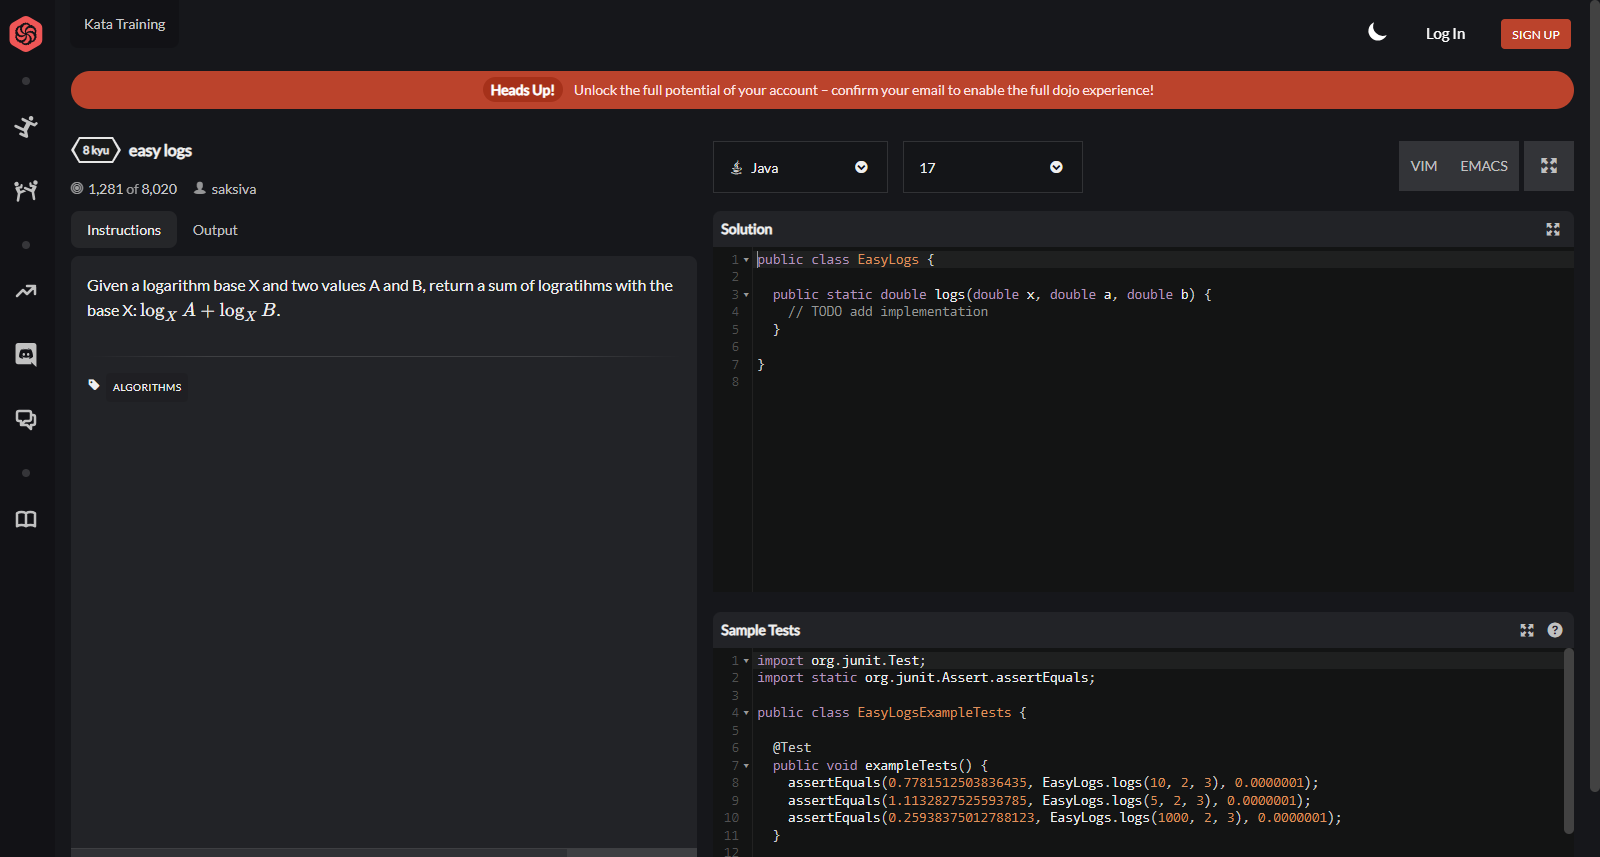
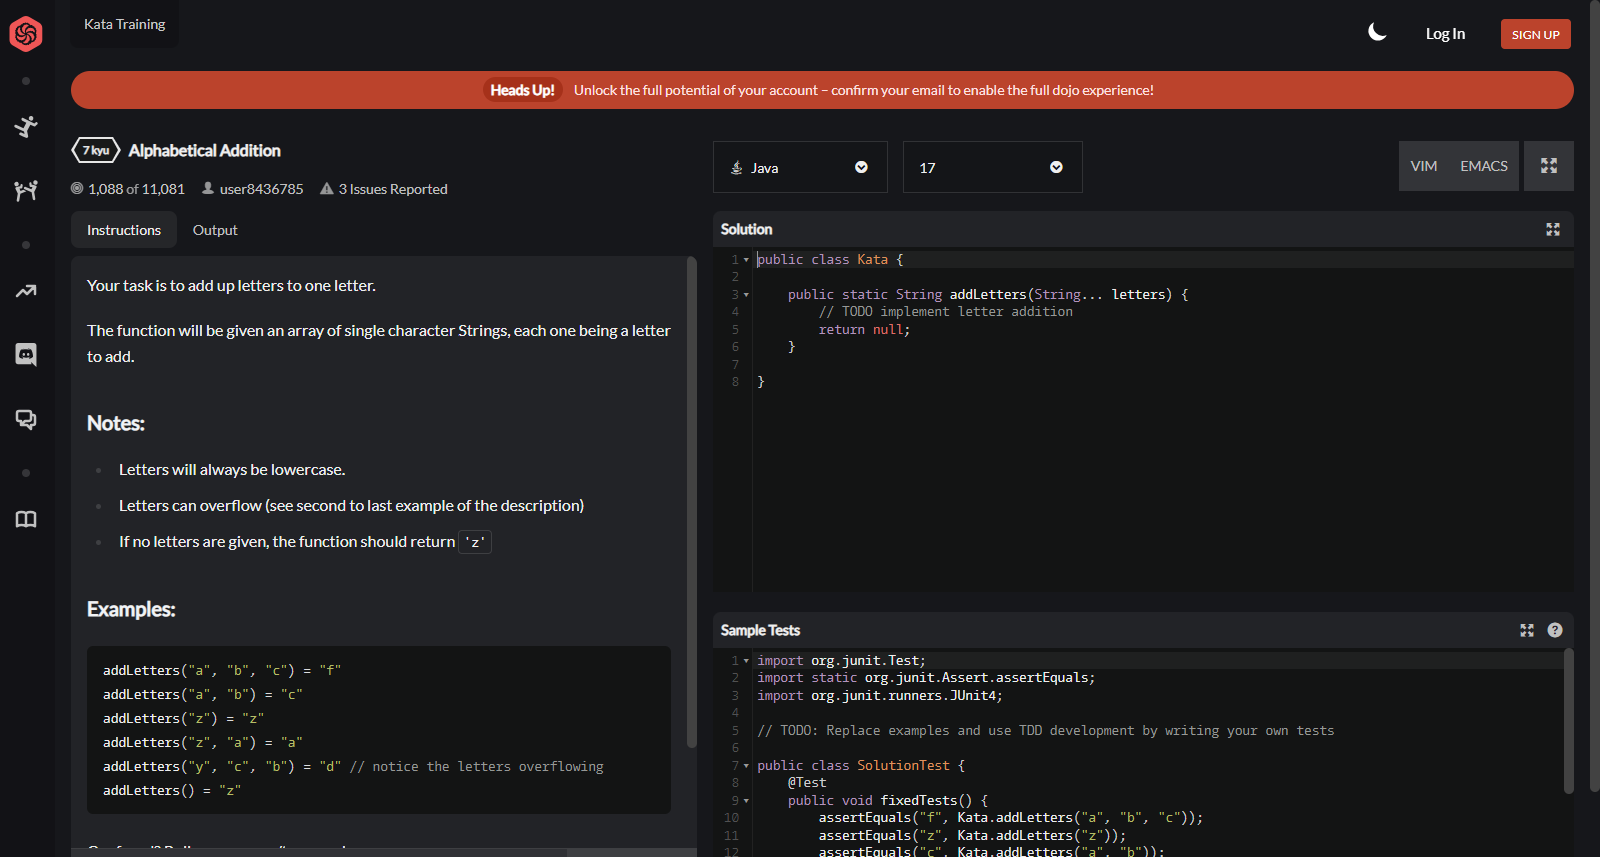
Dev process new functional

diff --git a/src/service/ScreenshotService.java b/src/service/ScreenshotService.java
@@ -33,6 +33,16 @@ public class ScreenshotService {
         language = language.equals("js") ? "javascript" : language;
         driver.get(url + language);
 
+        //Для получения только правой части экрана
+//        WebElement rect = driver.findElement(By.tagName("body"));
+        //Тест получения текста только из одного элемента
+//        WebElement element = driver.findElement(By.tagName("div"))
+//                .findElement(By.id("code"))
+//                .findElement(By.className("CodeMirror-scroll"))
+//                .findElement(By.className("CodeMirror-sizer"));
+//        String s = element.getText();
+//        System.out.println(s);
+
         //Пауза для прогрузки страницы
         try {
             TimeUnit.SECONDS.sleep(3);
@@ -41,7 +51,11 @@ public class ScreenshotService {
         }
         File scrFile = ((TakesScreenshot) driver).getScreenshotAs(OutputType.FILE);
         try {
+            //Скрин полного экрана
+//            FileUtils.copyFile(scrFile, new File("C:\\Users\\seera\\IdeaProjects\\Creator\\screen\\" + language + ".png"));
             BufferedImage fullImg = ImageIO.read(scrFile);
+            //Скрин правой части экрана
+//            BufferedImage rightPart = fullImg.getSubimage(rect.getWidth() / 2, 0, rect.getWidth() / 2, rect.getHeight());
             ImageIO.write(fullImg, "png",
                     new File("C:\\Users\\seera\\IdeaProjects\\Creator\\screen\\" + language + ".png"));
         } catch (IOException e) {

diff --git a/src/CreatorRunner.java b/src/CreatorRunner.java
@@ -7,7 +7,7 @@ import service.CreatorService;
 public class CreatorRunner {
     public static void main(String[] args) {
         //Добавить в 'challenge' ID или название задачи
-        String challenge = "5b68c7029756802aa2000176";
+        String challenge = "5d50e3914861a500121e1958";
         String urlApi = "https://www.codewars.com/api/v1/code-challenges/" + challenge;
         String screenshot = "https://www.codewars.com/kata/" + challenge + "/train/";
         CreatorService creatorService = new CreatorService();
